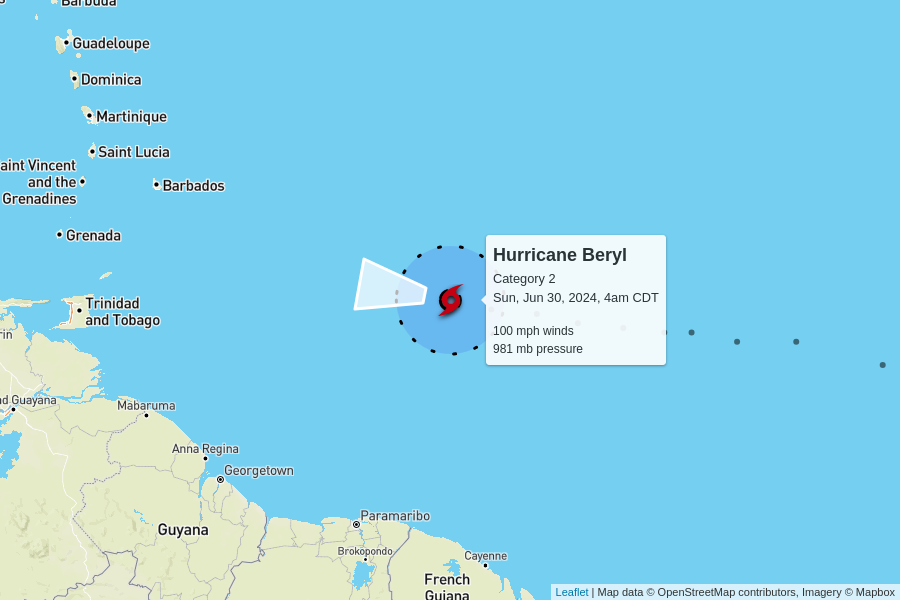
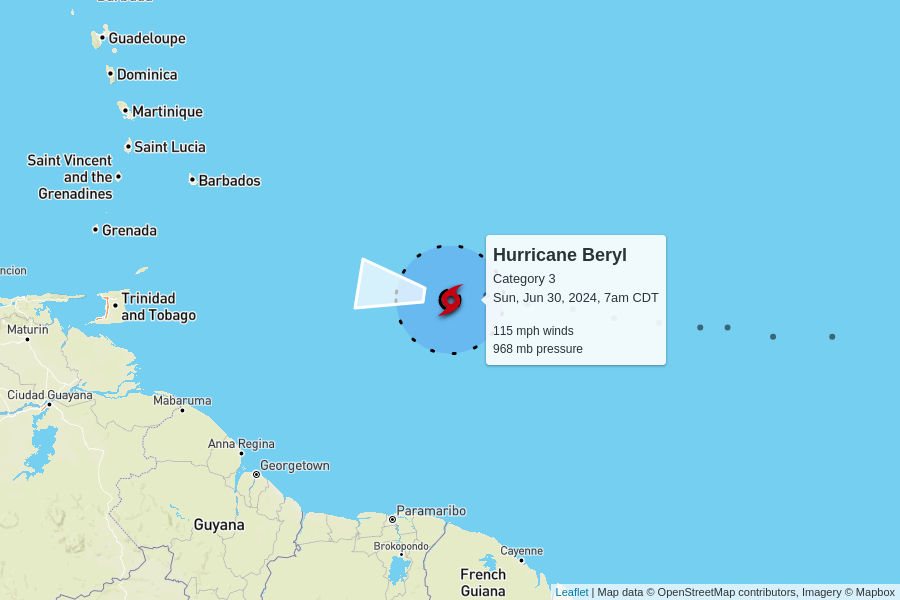
automatic update

diff --git a/docs/index.html b/docs/index.html
@@ -99,10 +99,10 @@
 
     <table>
       <tr>
-        <td colspan="6" class="storm category-2" >
+        <td colspan="6" class="storm category-3" >
           <h2>
-            Hurricane Beryl - Category 2
-            <p class="updated">last updated <span data-time>2024-06-30T09:00:00.000Z</span></p>
+            Hurricane Beryl - Category 3
+            <p class="updated">last updated <span data-time>2024-06-30T12:00:00.000Z</span></p>
           </h2>
         </td>
       </tr>
@@ -117,8 +117,8 @@
       </tr>
       <tr>
         <td class="spacer"></td>
-        <td>100 mph<br>+10 mph since last update</td>
-        <td>981 mb<br>-2 mb since last update</td>
+        <td>115 mph<br>+15 mph since last update</td>
+        <td>968 mb<br>-13 mb since last update</td>
         <td>
           21 mph to the west
           <br/>
